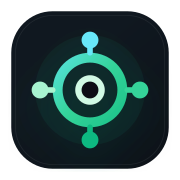
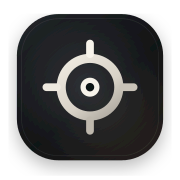
Refine diagnostics branding

Changed region(s): [[0.1667, 0.1667, 0.8333, 0.8333], [0.0556, 0.0556, 0.9444, 0.9444]]

diff --git a/src/app/tools/website-check/WebsiteCheckClient.tsx b/src/app/tools/website-check/WebsiteCheckClient.tsx
@@ -770,35 +770,40 @@ export default function WebsiteCheckClient({ dict, lang }: { dict: any; lang: 'z
 
   // Memoize advice to avoid computing it twice in render
   const adviceList = useMemo(() => (result ? getAdvice(result) : []), [result])
+  const displayedTarget = result?.domain || domain || 'opskitpro.com'
 
   return (
-    <main className="w-full max-w-6xl mx-auto px-6 mt-12 mb-32 z-20 relative font-sans">
+    <main className="w-full max-w-6xl mx-auto px-6 mt-8 sm:mt-12 mb-28 z-20 relative font-sans">
       {/* Background Glow */}
-      <div className="fixed top-0 left-1/2 -translate-x-1/2 w-full max-w-[1000px] h-[600px] bg-emerald-500/5 blur-[150px] rounded-full pointer-events-none -z-10"></div>
+      <div className="fixed top-0 left-1/2 -translate-x-1/2 w-full max-w-[1000px] h-[600px] bg-emerald-500/6 blur-[150px] rounded-full pointer-events-none -z-10"></div>
 
       {/* Hero Header */}
-      <div className="text-center mb-16">
-        <div className="inline-flex items-center gap-2 px-4 py-1.5 rounded-full bg-emerald-500/8 border border-emerald-500/20 text-emerald-600 text-[10px] font-semibold tracking-[0.18em] mb-6">
+      <div className="text-center mb-12 sm:mb-14">
+        <div className="inline-flex items-center gap-2 px-4 py-1.5 rounded-full bg-white/70 border border-emerald-500/20 text-emerald-600 text-[10px] font-semibold tracking-[0.18em] mb-6 shadow-sm backdrop-blur-md">
           <div className="w-1.5 h-1.5 rounded-full bg-emerald-500 animate-pulse" />
           {localeText.heroBadge}
         </div>
-        <h1 className="text-3xl sm:text-4xl md:text-5xl lg:text-7xl font-semibold text-zinc-900 tracking-tighter mb-6 break-words">
+        <h1 className="text-3xl sm:text-4xl md:text-5xl lg:text-6xl font-semibold text-zinc-900 tracking-tighter mb-5 break-words">
            {result?.isVisitor
              ? localeText.heroTitles.visitor
              : result?.isActuallyIp
              ? localeText.heroTitles.ip
              : localeText.heroTitles.site}
         </h1>
-        <p className="max-w-2xl mx-auto mb-10 leading-relaxed text-zinc-600 text-sm sm:text-base font-medium tracking-normal">
+        <p className="max-w-2xl mx-auto mb-4 leading-relaxed text-zinc-600 text-sm sm:text-base font-medium tracking-normal">
            {localeText.heroSubtitle}
         </p>
+        <div className="mb-9 flex flex-wrap items-center justify-center gap-2 text-[10px] font-semibold tracking-[0.18em] text-zinc-400">
+          <span className="rounded-full border border-zinc-200/80 bg-white/70 px-3 py-1.5 shadow-sm">{localeText.heroModeLabel}</span>
+          <span className="hidden sm:inline rounded-full border border-zinc-200/80 bg-white/70 px-3 py-1.5 shadow-sm">{localeText.emptyHint}</span>
+        </div>
 
         {/* Input Bar */}
-        <div className="max-w-3xl mx-auto">
+        <div className="max-w-4xl mx-auto">
           <form onSubmit={handleSubmit} className="relative group">
             <div className="absolute inset-0 bg-emerald-500/10 blur-2xl rounded-full opacity-0 group-hover:opacity-100 transition-opacity duration-700"></div>
-            <div className="relative flex items-center bg-white border border-black/5 p-2 rounded-2xl shadow-2xl focus-within:ring-2 focus-within:ring-emerald-500/20 transition-all">
-               <div className="w-12 h-12 flex items-center justify-center text-zinc-400">
+            <div className="relative flex items-center bg-white/95 border border-zinc-100 p-2 rounded-[1.35rem] shadow-xl shadow-zinc-200/70 focus-within:ring-2 focus-within:ring-emerald-500/20 transition-all">
+               <div className="w-10 sm:w-12 h-12 flex items-center justify-center text-zinc-400">
                   <Globe className="w-5 h-5 group-focus-within:text-emerald-500 transition-colors" />
                </div>
                <input 
@@ -812,16 +817,16 @@ export default function WebsiteCheckClient({ dict, lang }: { dict: any; lang: 'z
                    }
                  }}
                  placeholder={dict.home.diagnostics_placeholder}
-                 className="flex-grow bg-transparent border-none outline-none text-zinc-900 text-lg px-2"
+                 className="min-w-0 flex-grow bg-transparent border-none outline-none text-zinc-900 text-base sm:text-lg px-1 sm:px-2"
                />
                <button 
                  type="button"
                  onClick={() => runDiagnostic(undefined, true)}
                  disabled={loading}
-                 className="bg-gradient-to-r from-emerald-500 to-teal-600 hover:from-emerald-400 hover:to-teal-500 text-white px-8 py-3.5 rounded-xl transition-all flex items-center gap-2 font-bold shadow-lg shadow-emerald-500/30 disabled:opacity-50"
+                 className="shrink-0 bg-gradient-to-r from-emerald-500 to-teal-600 hover:from-emerald-400 hover:to-teal-500 text-white px-5 sm:px-8 py-3.5 rounded-xl transition-all flex items-center gap-2 font-bold shadow-lg shadow-emerald-500/25 disabled:opacity-50"
                  >
                  {loading ? <Activity className="w-4 h-4 animate-spin" /> : <Zap className="w-4 h-4 fill-current" />}
-                 {loading ? localeText.analyzing : dict.home.diagnostics_btn}
+                 <span className="whitespace-nowrap text-sm sm:text-base">{loading ? localeText.analyzing : dict.home.diagnostics_btn}</span>
                </button>
             </div>
           </form>
@@ -892,9 +897,9 @@ export default function WebsiteCheckClient({ dict, lang }: { dict: any; lang: 'z
         <div className="space-y-8 animate-in fade-in slide-in-from-bottom-8 duration-700">
            
            {/* Overall Status Bar */}
-           <div className={`mb-10 p-6 sm:p-8 rounded-3xl border shadow-sm flex flex-col md:flex-row items-center justify-between gap-6 relative overflow-hidden ${result.http.success ? 'bg-white border-emerald-100' : 'bg-red-50 border-red-100'}`}>
+           <div className={`mb-6 p-5 sm:p-7 rounded-[2rem] border shadow-sm flex flex-col lg:flex-row items-stretch lg:items-center justify-between gap-5 relative overflow-hidden ${result.http.success ? 'bg-white/90 border-emerald-100/80' : 'bg-red-50 border-red-100'}`}>
               <div className="absolute top-0 right-0 w-64 h-64 bg-emerald-500/5 blur-[100px] rounded-full pointer-events-none"></div>
-              <div className="flex items-center gap-6 z-10 w-full md:w-auto">
+              <div className="flex items-center gap-5 z-10 w-full min-w-0">
                  {/* Score Ring */}
                  {(() => {
                    const score = calculateScore(result)
@@ -914,24 +919,34 @@ export default function WebsiteCheckClient({ dict, lang }: { dict: any; lang: 'z
                      </div>
                    )
                  })()}
-                 <div>
+                 <div className="min-w-0">
                    <h2 className="text-[10px] font-semibold text-zinc-400 mb-1 tracking-[0.18em]">{localeText.summaryScore}</h2>
                  <h1 className={`text-2xl sm:text-3xl font-semibold tracking-[-0.02em] ${result.http.success && !result.whois?.status?.toLowerCase().includes('hold') ? 'text-zinc-900' : 'text-red-600'}`}>
                      {result.http.success && !result.whois?.status?.toLowerCase().includes('hold') ? dict.tools.website_check.summary_good : dict.tools.website_check.summary_bad}
                    </h1>
+                   <div className="mt-3 flex flex-wrap items-center gap-2">
+                     <span className="inline-flex max-w-full items-center gap-2 rounded-full border border-zinc-200 bg-zinc-50 px-3 py-1.5 text-[10px] font-semibold tracking-[0.14em] text-zinc-500">
+                       <Monitor className="h-3 w-3 shrink-0 text-zinc-400" />
+                       <span className="truncate">{displayedTarget}</span>
+                     </span>
+                     <span className={`inline-flex items-center gap-1.5 rounded-full border px-3 py-1.5 text-[10px] font-semibold tracking-[0.14em] ${result.http.success ? 'border-emerald-100 bg-emerald-50 text-emerald-700' : 'border-red-100 bg-red-50 text-red-600'}`}>
+                       <CheckCircle2 className="h-3 w-3" />
+                       {result.http.status_code || 'ERR'}
+                     </span>
+                   </div>
                  </div>
               </div>
-              <button onClick={copyResult} className="relative z-10 flex items-center justify-center gap-2 text-[10px] font-semibold text-zinc-400 hover:text-zinc-900 transition-colors tracking-[0.22em] bg-zinc-50 py-3 px-6 rounded-full border border-black/5 hover:bg-zinc-100 w-full md:w-auto shrink-0">
+              <button onClick={copyResult} className="relative z-10 flex items-center justify-center gap-2 text-[10px] font-semibold text-zinc-500 hover:text-zinc-900 transition-colors tracking-[0.22em] bg-zinc-50/90 py-3 px-6 rounded-full border border-zinc-200 hover:bg-zinc-100 w-full lg:w-auto shrink-0">
                 {copied ? <Check className="w-3 h-3 text-emerald-500" /> : <Copy className="w-3 h-3" />}
                 {copied ? localeText.copy.copied : localeText.copy.copy}
               </button>
            </div>
 
-           <div className="grid grid-cols-1 sm:grid-cols-2 xl:grid-cols-4 gap-3 mb-5">
+           <div className="grid grid-cols-2 xl:grid-cols-4 gap-3 mb-5">
              {summaryFacts.slice(2).map((fact) => (
-               <div key={fact.label} className="rounded-2xl border border-black/5 bg-white/80 backdrop-blur-md px-4 py-3 shadow-sm">
-                 <div className="text-[10px] font-semibold tracking-[0.22em] text-zinc-400">{fact.label}</div>
-                 <div className={`mt-2 text-sm font-semibold ${
+               <div key={fact.label} className="rounded-2xl border border-zinc-100 bg-white/85 backdrop-blur-md px-4 py-3 shadow-sm">
+                 <div className="text-[10px] font-semibold tracking-[0.18em] text-zinc-400">{fact.label}</div>
+                 <div className={`mt-2 truncate text-sm font-semibold ${
                    fact.tone === 'emerald'
                      ? 'text-emerald-600'
                      : fact.tone === 'orange'
@@ -946,8 +961,8 @@ export default function WebsiteCheckClient({ dict, lang }: { dict: any; lang: 'z
              ))}
            </div>
 
-           <div className="flex items-center justify-between gap-3 mb-6">
-             <p className="text-[10px] font-semibold text-zinc-400 tracking-[0.22em]">
+           <div className="flex items-center justify-between gap-3 mb-6 rounded-full border border-zinc-100 bg-white/70 px-4 py-2 shadow-sm backdrop-blur-md">
+             <p className="text-[10px] font-semibold text-zinc-400 tracking-[0.18em]">
                {localeText.detailsHint}
              </p>
              <button

diff --git a/src/components/SiteHeader.tsx b/src/components/SiteHeader.tsx
@@ -2,7 +2,6 @@
 
 import { useState } from 'react'
 import Link from 'next/link'
-import Image from 'next/image'
 import { usePathname } from 'next/navigation'
 import {
   Github,
@@ -29,13 +28,12 @@ export function SiteHeader({ dict, lang }: { dict: any; lang: 'zh' | 'en' | 'ja'
     <header className="w-full max-w-6xl mx-auto px-6 py-6 md:py-8 flex justify-between items-center z-50 relative">
       <Link href={`/`} className="group flex items-center gap-3 no-underline outline-none relative z-50">
         <div className="relative group-hover:-rotate-6 transition-transform duration-500">
-          <Image 
-            src="/logo.png" 
-            alt="OpsKitPro Avatar" 
-            width={44} 
-            height={44} 
+          <img 
+            src="/logo.svg" 
+            alt="OpsKitPro logo" 
+            width={44}
+            height={44}
             className="rounded-xl shadow-[0_0_15px_rgba(16,185,129,0.3)] border border-white/5 bg-zinc-900" 
-            priority
           />
         </div>
         <span className="text-xl font-semibold tracking-tight text-zinc-900 group-hover:text-emerald-600 transition-colors">

diff --git a/src/app/layout.tsx b/src/app/layout.tsx
@@ -61,7 +61,10 @@ export async function generateMetadata(): Promise<Metadata> {
       },
     },
     icons: {
-      icon: '/favicon.ico',
+      icon: [
+        { url: '/favicon.ico' },
+        { url: '/logo.svg', type: 'image/svg+xml' },
+      ],
       shortcut: '/favicon.ico',
       apple: '/apple-touch-icon.png',
     },
